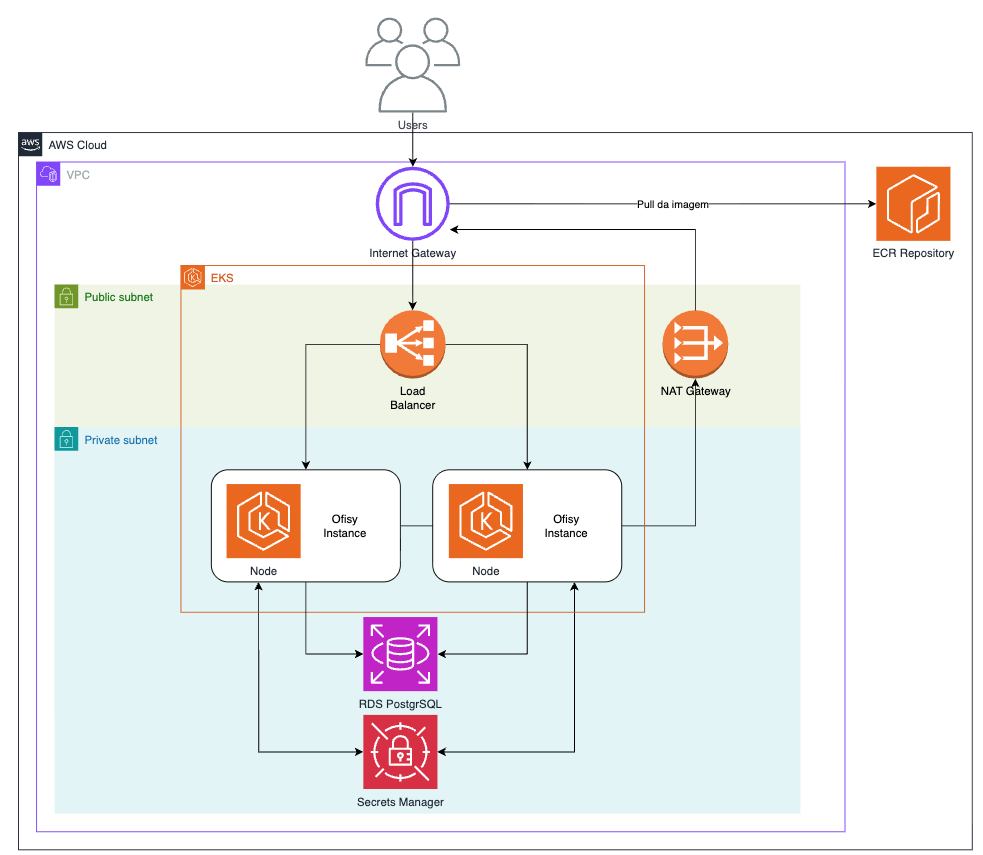
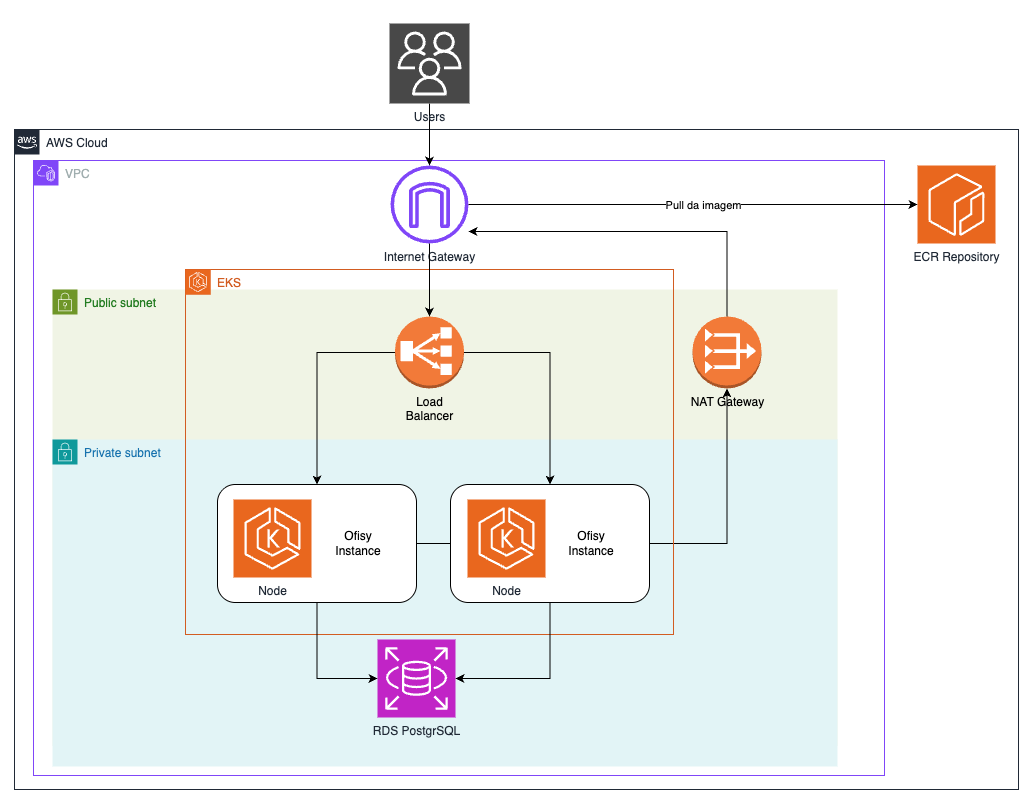
docs: remover o recurso Secrets Manager que nao foi utilizado

Changed region(s): [[0.0, 0.0, 1.0, 1.0]]

diff --git a/docs/INFRA-DIAGRAM.md b/docs/INFRA-DIAGRAM.md
@@ -4,11 +4,10 @@ Diagrama de infraestrutura (deployment) da aplicação Ofisy na AWS: como o cont
 Backend documentado em `docs/COMPONENT-DIAGRAM.md` roda, é exposto e persiste dados em
 produção.
 
-A aplicação roda em um cluster EKS dentro de uma VPC dedicada, com os nós de trabalho na
+A aplicação roda num cluster EKS dentro de uma VPC dedicada, com os nós de trabalho na
 subnet privada. Quem entra vindo da internet passa por um Load Balancer na subnet
 pública; quem sai (por exemplo, o pull de imagem no ECR) passa pelo NAT Gateway. O banco
-fica num RDS PostgreSQL e as credenciais sensíveis (usuário/senha do banco, segredo do
-JWT) ficam no Secrets Manager, os dois só acessíveis a partir da subnet privada.
+fica num RDS PostgreSQL, acessível a partir da subnet privada.
 
 ![Diagrama de Infraestrutura AWS](resources/infra-aws-diagram.png)
 
@@ -23,14 +22,13 @@ JWT) ficam no Secrets Manager, os dois só acessíveis a partir da subnet privad
 | **Ofisy Instance/Node** | Pod (Spring Boot / Java 21) | Executa o container do backend descrito em `docs/COMPONENT-DIAGRAM.md`; escala horizontalmente conforme carga.                      |
 | **ECR Repository**      | Amazon ECR                  | Registro privado da imagem Docker do backend, usada no deploy dos nós do EKS.                                                       |
 | **RDS PostgreSQL**      | Amazon RDS (PostgreSQL)     | Banco de dados relacional gerenciado, na subnet privada, acessado pelos pods do backend.                                            |
-| **Secrets Manager**     | AWS Secrets Manager         | Armazena credenciais sensíveis (usuário/senha do banco, segredo do JWT) consumidas pelos pods em tempo de execução.                 |
 
 ## Subnets e segurança de rede
 
-| Subnet             | Conteúdo                                        | Exposição                                                                             |
-|--------------------|-------------------------------------------------|---------------------------------------------------------------------------------------|
-| **Public subnet**  | Load Balancer, NAT Gateway                      | Acessível pela internet via Internet Gateway; único ponto de entrada externo.         |
-| **Private subnet** | EKS (nós/pods), RDS PostgreSQL, Secrets Manager | Sem IP público; saída à internet apenas via NAT Gateway (ex.: pull de imagem do ECR). |
+| Subnet             | Conteúdo                       | Exposição                                                                             |
+|--------------------|--------------------------------|---------------------------------------------------------------------------------------|
+| **Public subnet**  | Load Balancer, NAT Gateway     | Acessível pela internet via Internet Gateway; único ponto de entrada externo.         |
+| **Private subnet** | EKS (nós/pods), RDS PostgreSQL | Sem IP público; saída à internet apenas via NAT Gateway (ex.: pull de imagem do ECR). |
 
 ## Relação com o diagrama de componentes
 
